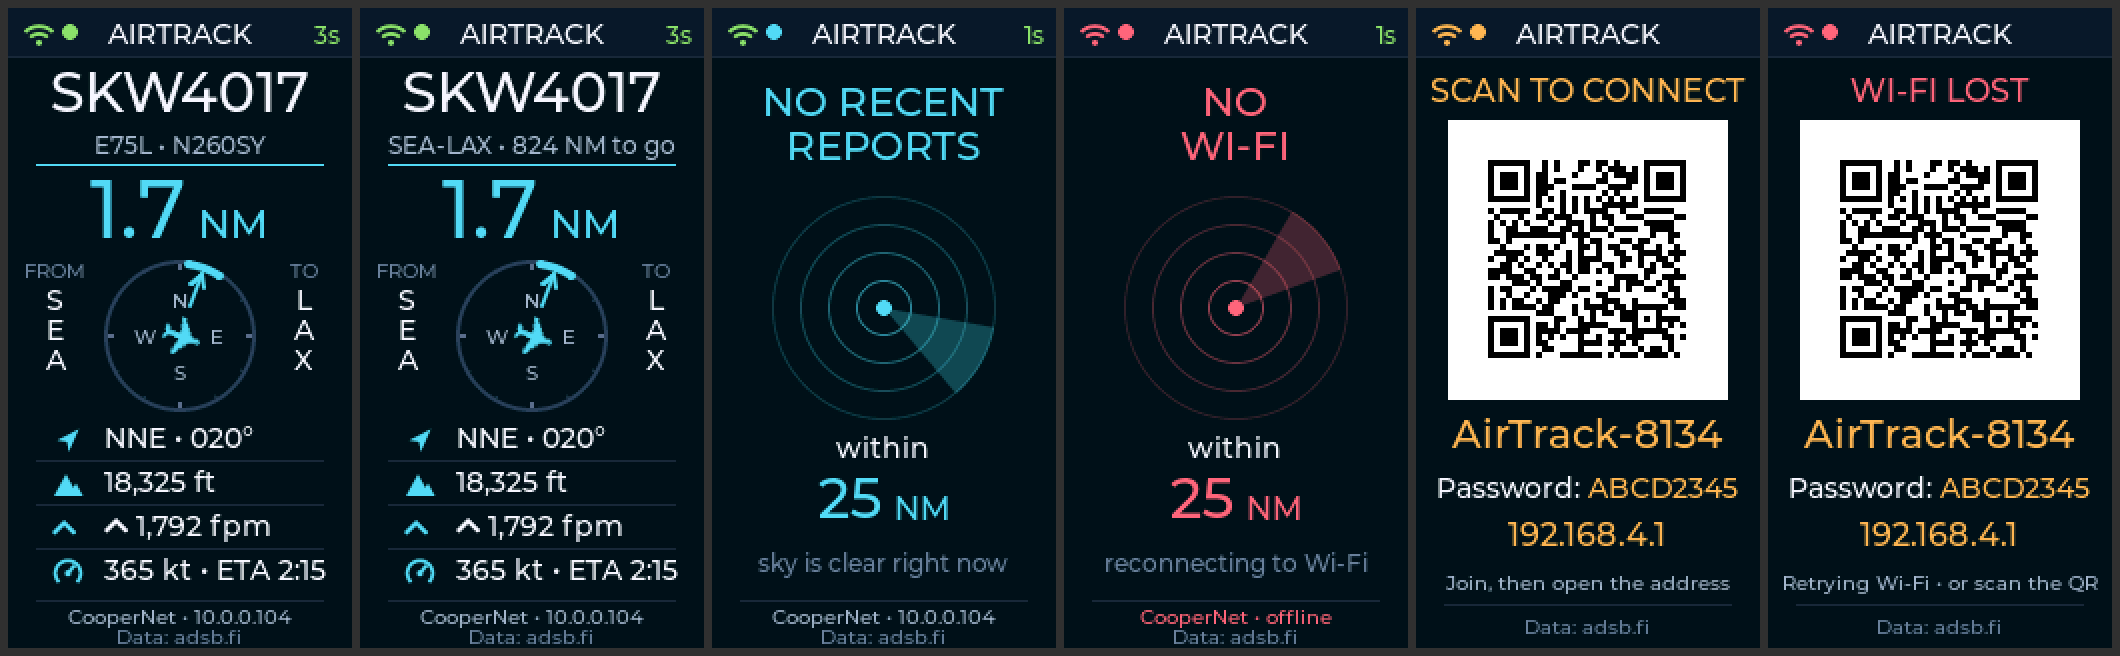
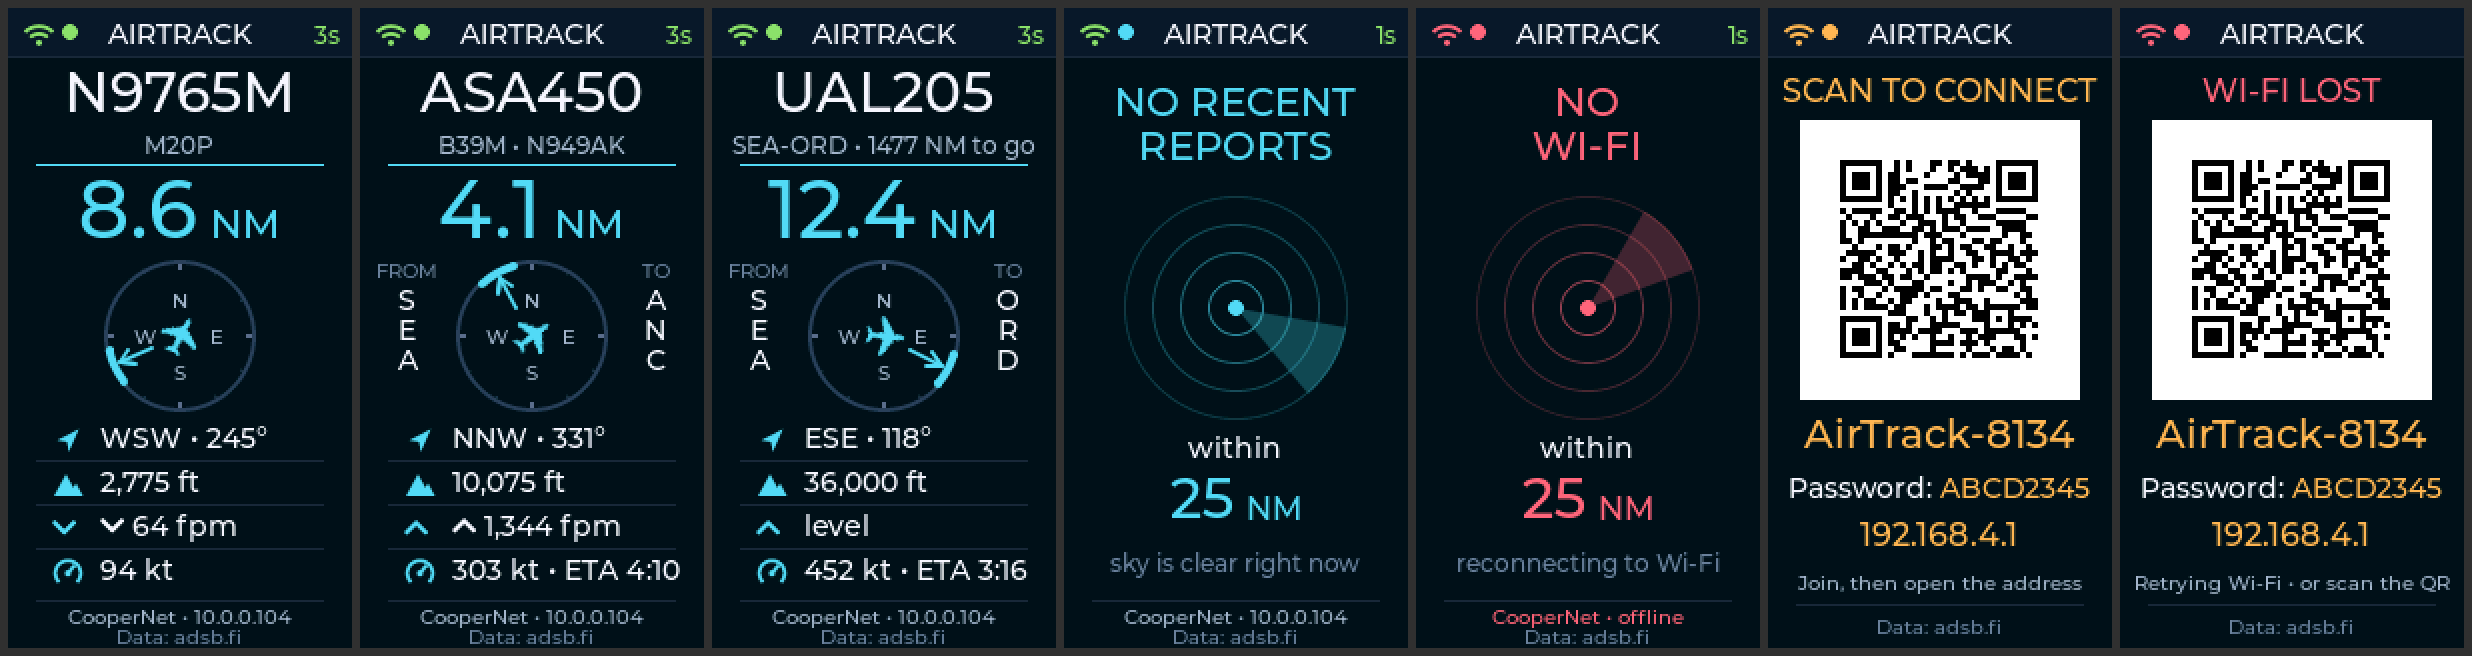
README LCD strip: distinct scenarios per panel (GA target without route, airliner with route, single-flight focus, no reports, no Wi-Fi, setup, recovery); clip data-row labels to one line

Changed region(s): [[0.0, 0.0305, 1.0, 1.0]]

diff --git a/tools/host_ui_render/render_ui.c b/tools/host_ui_render/render_ui.c
@@ -112,14 +112,14 @@ int main(int argc, char **argv)
     s_now_us = 4000 * 1000;
     snap.aircraft_count = 1;
     airtrack_aircraft_t *a = &snap.aircraft[0];
-    strcpy(a->hex, "A280A4"); strcpy(a->callsign, "SKW4017");
-    strcpy(a->registration, "N260SY"); strcpy(a->aircraft_type, "E75L");
-    strcpy(a->squawk, "5372"); strcpy(a->category, "A3");
-    a->altitude_valid = true; a->altitude_ft = 18325;
-    a->vertical_rate_valid = true; a->vertical_rate_fpm = 1792;
-    a->ground_speed_valid = true; a->ground_speed_kt = 364.8f;
-    a->track_valid = true; a->track_deg = 110.4f;
-    a->distance_nm = 1.747f; a->bearing_deg = 20.3f; a->seen_pos_s = 0.9f;
+    strcpy(a->hex, "AD9D02"); strcpy(a->callsign, "N9765M");
+    strcpy(a->registration, "N9765M"); strcpy(a->aircraft_type, "M20P");
+    strcpy(a->squawk, "1200"); strcpy(a->category, "A1");
+    a->altitude_valid = true; a->altitude_ft = 2775;
+    a->vertical_rate_valid = true; a->vertical_rate_fpm = -64;
+    a->ground_speed_valid = true; a->ground_speed_kt = 94.0f;
+    a->track_valid = true; a->track_deg = 28.0f;
+    a->distance_nm = 8.6f; a->bearing_deg = 245.0f; a->seen_pos_s = 0.3f;
 
     ui_tracking_state_t state = {
         .settings = &settings, .snapshot = &snap, .ssid = "CooperNet",
@@ -130,16 +130,24 @@ int main(int argc, char **argv)
     snprintf(path, sizeof(path), "%s/02_live.ppm", out_dir);
     render_and_save(path);
 
-    /* With route enrichment. */
-    a->route_valid = true; strcpy(a->route_from, "SEA"); strcpy(a->route_to, "LAX");
-    a->destination_valid = true; a->destination_latitude = 33.9425; a->destination_longitude = -118.408;
+    /* Nearest mode with route enrichment: a different airliner. */
+    strcpy(a->hex, "A6D3E1"); strcpy(a->callsign, "ASA450"); strcpy(a->registration, "N949AK");
+    strcpy(a->aircraft_type, "B39M"); a->altitude_ft = 10075; a->vertical_rate_fpm = 1344;
+    a->ground_speed_kt = 303.0f; a->track_deg = 53.0f; a->distance_nm = 4.1f; a->bearing_deg = 331.0f;
+    a->route_valid = true; strcpy(a->route_from, "SEA"); strcpy(a->route_to, "ANC");
+    a->destination_valid = true; a->destination_latitude = 61.1744; a->destination_longitude = -149.996;
     a->latitude = 47.40; a->longitude = -121.95;
     ui_diagnostic_show_tracking(&state);
     snprintf(path, sizeof(path), "%s/02b_route.ppm", out_dir);
     render_and_save(path);
 
-    /* Focused on one flight. */
-    strcpy(settings.focus_flight, "SKW4017");
+    /* Focused on one flight (different aircraft, far along its route). */
+    strcpy(settings.focus_flight, "UAL205");
+    strcpy(a->hex, "A2C1F0"); strcpy(a->callsign, "UAL205"); strcpy(a->registration, "N37267");
+    strcpy(a->aircraft_type, "B738"); a->altitude_ft = 36000; a->vertical_rate_fpm = 0;
+    a->ground_speed_kt = 452.0f; a->track_deg = 96.0f; a->distance_nm = 12.4f; a->bearing_deg = 118.0f;
+    strcpy(a->route_from, "SEA"); strcpy(a->route_to, "ORD");
+    a->destination_latitude = 41.9742; a->destination_longitude = -87.9073;
     ui_diagnostic_show_tracking(&state);
     snprintf(path, sizeof(path), "%s/02c_focus.ppm", out_dir);
     render_and_save(path);
@@ -149,6 +157,10 @@ int main(int argc, char **argv)
     render_and_save(path);
     snap.aircraft_count = 1; snap.state = AIRTRACK_FEED_LIVE;
     settings.focus_flight[0] = 0; a->route_valid = false; a->destination_valid = false;
+    /* restore the GA-style example for the remaining scenarios */
+    strcpy(a->hex, "A280A4"); strcpy(a->callsign, "SKW4017"); strcpy(a->registration, "N260SY");
+    strcpy(a->aircraft_type, "E75L"); a->altitude_ft = 18325; a->vertical_rate_fpm = 1792;
+    a->ground_speed_kt = 364.8f; a->track_deg = 110.4f; a->distance_nm = 1.747f; a->bearing_deg = 20.3f;
 
     /* Long callsign, descending, km, far away, stale. */
     strcpy(a->callsign, "N12345AB"); a->vertical_rate_fpm = -2432;

diff --git a/components/ui/ui_diagnostic.c b/components/ui/ui_diagnostic.c
@@ -1087,8 +1087,10 @@ static void create_data_row(lv_obj_t *parent, size_t index, int32_t y,
             UI_COLOR_CYAN);
     }
     s_ui.trk_row_text[index] = create_font_label(
-        parent, "--", 48, y, BOARD_LCD_H_RES - 60, &lv_font_montserrat_14,
+        parent, "--", 46, y, BOARD_LCD_H_RES - 50, &lv_font_montserrat_14,
         UI_COLOR_TEXT);
+    /* One line only; never wrap into the row below or the footer. */
+    lv_label_set_long_mode(s_ui.trk_row_text[index], LV_LABEL_LONG_CLIP);
 }
 
 static void create_radar(lv_obj_t *parent, int32_t cx, int32_t cy)
